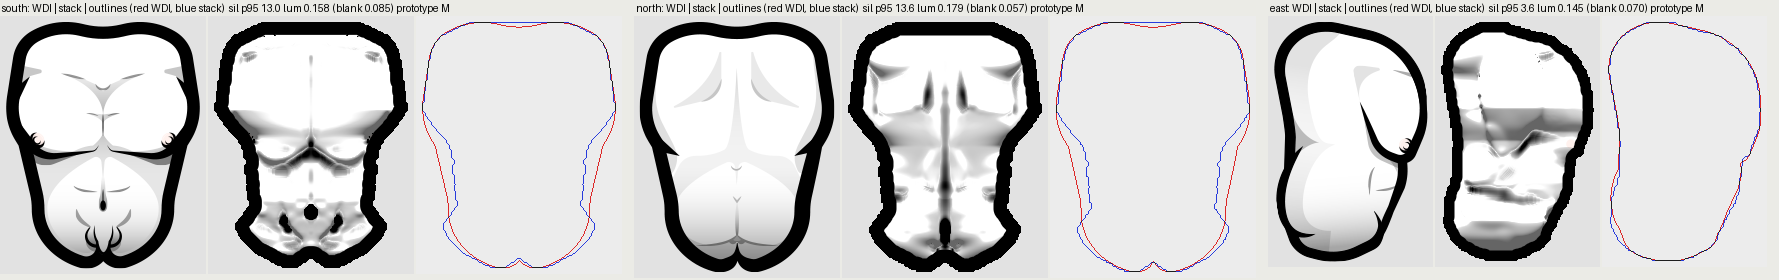
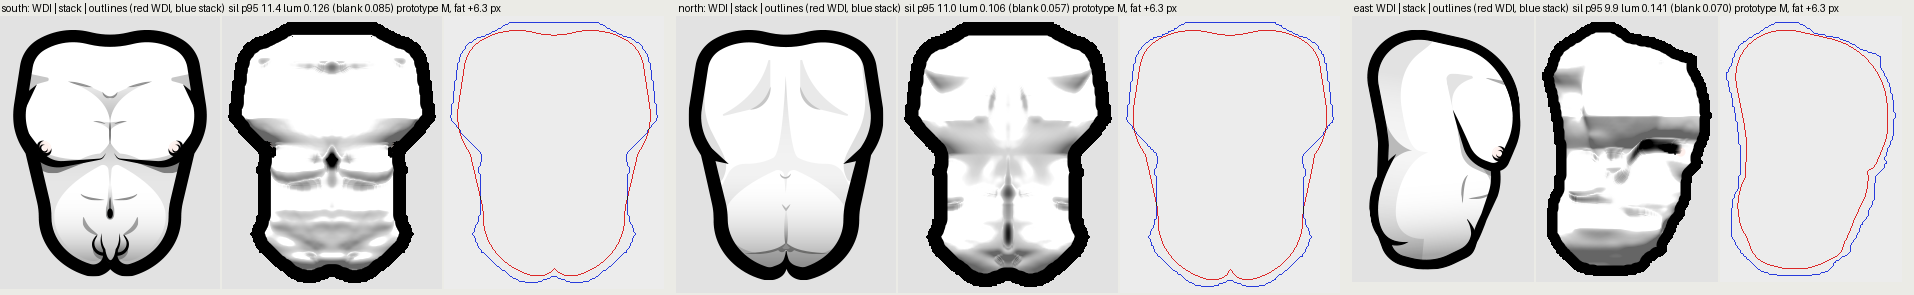
Body 3D: prototype M v3, widths 0.79 / 0.72 / 0.77 of the shoulders and fat 23 % of the torso mass (uniform fat layer +6.3 px)
Composition now: bone 7.1 %, muscle 34.5 %, viscera 32.0 %, fat 23 %, rest 3.4 %. Muscle (target 42 %) and bone (target 4 %) not adjusted yet.

diff --git a/Art/work/transfer-proto/fable-crack/proto.py b/Art/work/transfer-proto/fable-crack/proto.py
@@ -24,10 +24,41 @@ def carry(K, a):
     return out
 
 
+def layer_fields(K):
+    """Signed fields on the body grid: bone (display bones), muscle, fat pads, lean (whole stack), fat solid."""
+    G, S, G0 = K["G"], K["S"], K["G0"]
+    un = {"bone": G0.full(), "muscle": G0.full(), "fat": G0.full()}
+    for name, layer, colour, sl, a in S.parts:
+        if a is not None and layer in un:
+            un[layer][sl] = np.minimum(un[layer][sl], a)
+    fat = K["fat"]
+    for f in K["steps"][1:]:
+        fat = f.warp(G, fat, 1)
+    return {"bone": carry(K, un["bone"]), "muscle": carry(K, un["muscle"]), "pads": carry(K, un["fat"]),
+            "lean": carry(K, S.d), "fat": fat}
+
+
+def composition(F, d, h):
+    """Mass shares (%) inside the skin d: every layer less the ones under it; the fat outside the lean counts as fat."""
+    skin = d < 0
+    bone = F["bone"] < 0; musc = (F["muscle"] < 0) & ~bone; pads = (F["pads"] < 0) & ~bone & ~musc
+    lean = F["lean"] < 0
+    fat = (F["fat"] < 0) | F.get("grown", np.zeros_like(skin))   # the skin grown outward (prototype fat) is fat too
+    under = bone | musc | pads
+    fat = fat & ~lean & ~under
+    vox = {"bone": bone, "muscle": musc, "fat pads": pads, "viscera": lean & ~under, "fat": fat,
+           "rest": ~fat & ~lean & ~under}
+    mass = {k: float((m & skin).sum()) * h ** 3 * DENS[k] for k, m in vox.items()}
+    tot = sum(mass.values())
+    return {k: 100.0 * v / tot for k, v in mass.items()}
+
+
 # Prototype targets: widths relative to the shoulders (Virginie 2026-11-17). Rows of the Male frame where each is read:
 # shoulders = widest row (deltoid stump, 268), upper chest = under the armpits (298), waist = navel (358), pelvis = hips (382).
 WROWS = {"shoulders": 268.0, "upper chest": 298.0, "waist": 358.0, "pelvis": 382.0}
-PROTO = {"M": {"shoulders": 1.0, "upper chest": 0.8, "waist": 0.66, "pelvis": 0.76}}
+# M of 2026-11-17 (second sheet): fat 23 %, muscle 42 %, bone 4 %; shoulders 43 cm, upper chest 34, waist 31, pelvis 33
+PROTO = {"M": {"shoulders": 1.0, "upper chest": 0.79, "waist": 0.72, "pelvis": 0.77}}
+COMP = {"M": {"fat": 23.0, "muscle": 42.0, "bone": 4.0}}
 
 
 def width_scale(G, d, target):
@@ -92,6 +123,20 @@ def proto_board(name, h):
     Go = s.Grid(G.h, x1=float(G.x[-1]) * max(max(k), 1.0) + 4.0, r0=float(G.r[0]), r1=float(G.r[-1]) + 8.0,
                 z0=float(G.z[0]) - 8.0, z1=float(G.z[-1]))
     tgt = PROTO[name]
+    # fat: the skin grown outward by t px (all of it fat) until the fat share of the torso reaches the target
+    F = layer_fields(K)
+    d0 = K["d"]
+    def fat_share(t):
+        Ft = dict(F); Ft["grown"] = (d0 - t < 0) & ~(d0 < 0)
+        return composition(Ft, d0 - t, G.h)
+    lo_, hi_ = 0.0, 25.0
+    for _ in range(14):
+        mid = 0.5 * (lo_ + hi_)
+        lo_, hi_ = (mid, hi_) if fat_share(mid)["fat"] + fat_share(mid)["fat pads"] < COMP[name]["fat"] else (lo_, mid)
+    tf = 0.5 * (lo_ + hi_)
+    comp = fat_share(tf)
+    print(f"{name}: fat grown {tf:.2f} px; composition " + ", ".join(f"{k} {v:.1f} %" for k, v in comp.items()))
+    K = dict(K); K["d"] = d0 - tf
     for it in range(4):                                        # the shape edits move the rows: re-solve the widths on the result
         d, o = shaped(Go, G, [(K["d"], 1), (K["owner"], 0)], rows, k, (T.rows, T.zc), SHAPE[name])
         xm = np.nan_to_num(np.nanmax(s.last_cross(d, 1, Go.x), axis=1))
@@ -100,7 +145,7 @@ def proto_board(name, h):
         k = [kk * tgt[n] * sh / hw(WROWS[n]) for kk, n in zip(k, WROWS)]
     d, o = shaped(Go, G, [(K["d"], 1), (K["owner"], 0)], rows, k, (T.rows, T.zc), SHAPE[name])
     o = np.round(o).astype(np.int16)
-    rep, path = s.board(K["S"], Go, d, T, f"proto{name}", o, extra=f"prototype {name}")
+    rep, path = s.board(K["S"], Go, d, T, f"proto{name}", o, extra=f"prototype {name}, fat +{tf:.1f} px")
     for f, r in rep.items():
         print(f"{f:6s} sil p95 {r['p95']:.2f} | lum {r['mae']:.4f}")
     xm = np.nanmax(s.last_cross(d, 1, Go.x), axis=1)
